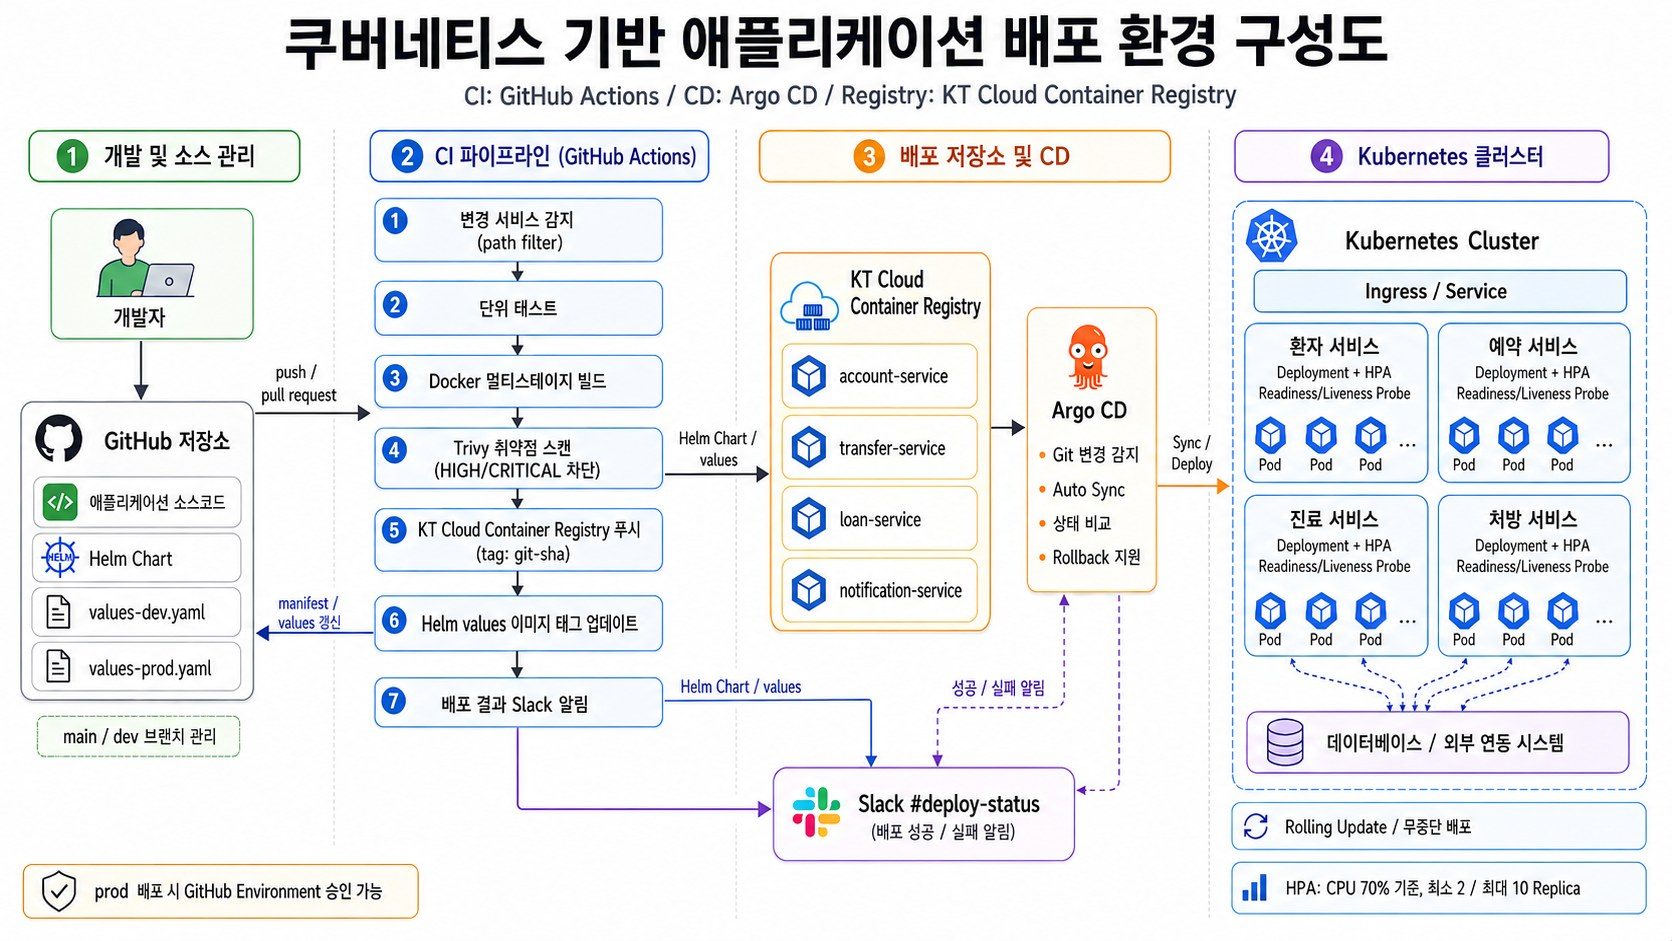
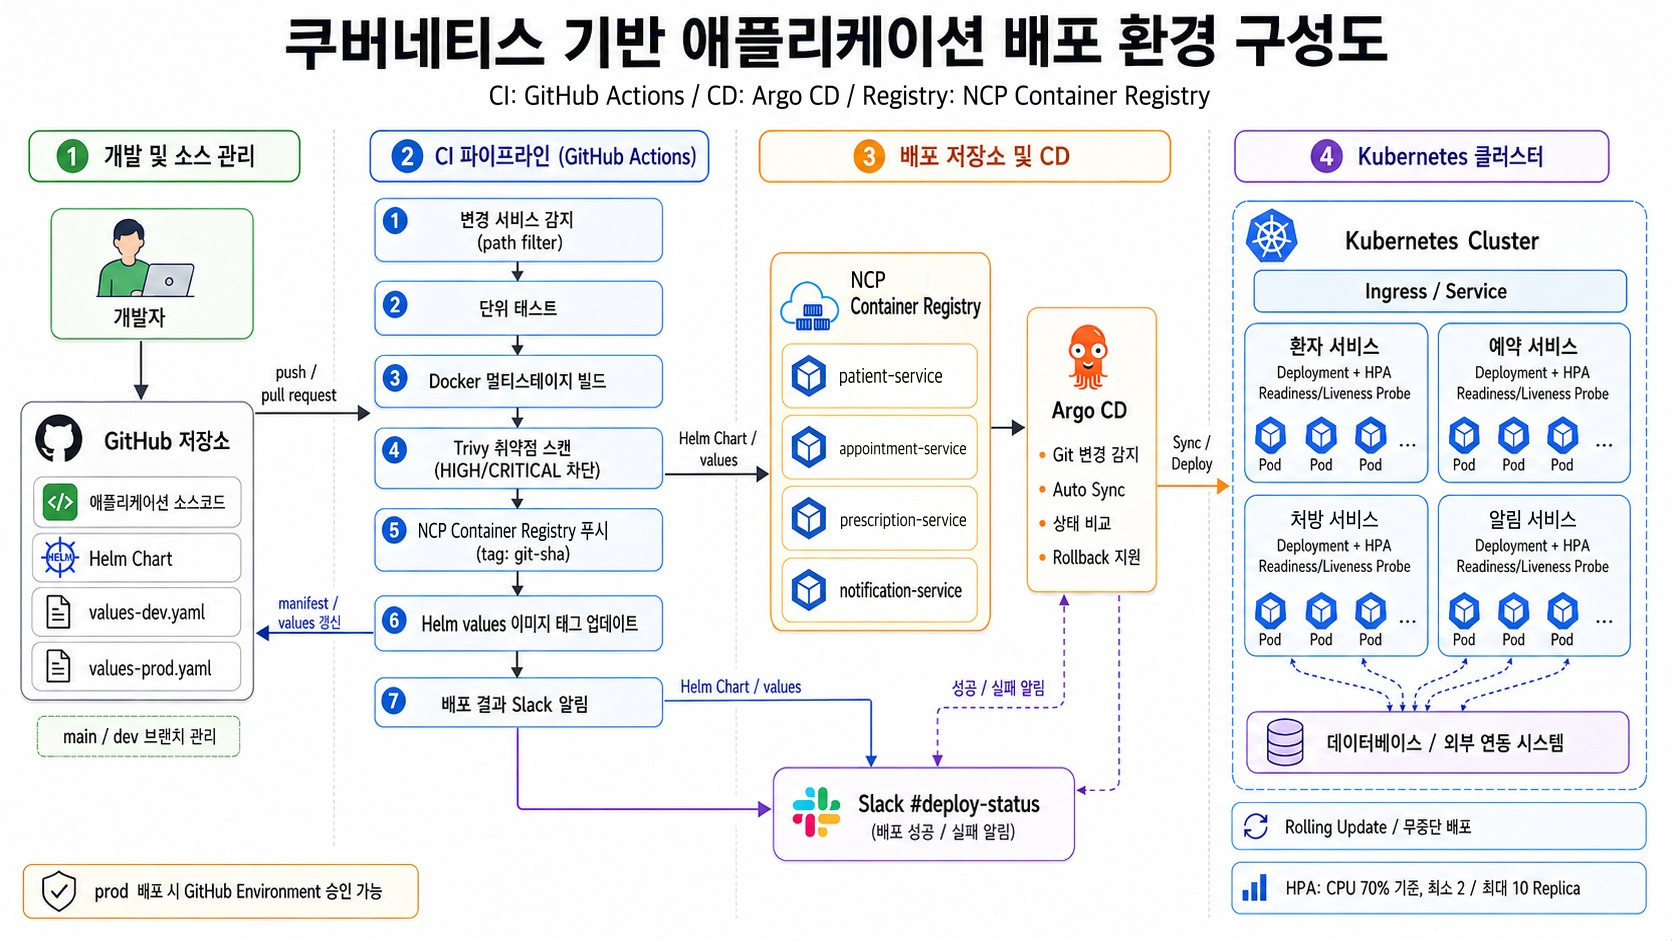
fix: match Medical MSA diagram to the actual services and NCP registry

diff --git a/projects/cloud-native.html b/projects/cloud-native.html
@@ -36,7 +36,7 @@
     <figure class="system-arch">
       <figcaption>DEPLOYMENT ARCHITECTURE</figcaption>
       <a class="system-arch-image" href="../assets/medical-architecture.jpg" target="_blank" rel="noreferrer" aria-label="배포 구성도 원본 이미지 열기">
-        <img src="../assets/medical-architecture.jpg" alt="쿠버네티스 기반 애플리케이션 배포 환경 구성도: GitHub 저장소에서 GitHub Actions가 변경 감지, 단위 테스트, 멀티스테이지 빌드, Trivy 스캔, 레지스트리 푸시, Helm values 갱신, Slack 알림을 수행하고 Argo CD가 Kubernetes 클러스터의 환자 · 예약 · 진료 · 처방 서비스로 배포" />
+        <img src="../assets/medical-architecture.jpg" alt="쿠버네티스 기반 애플리케이션 배포 환경 구성도: GitHub 저장소에서 GitHub Actions가 변경 감지, 단위 테스트, 멀티스테이지 빌드, Trivy 스캔, 레지스트리 푸시, Helm values 갱신, Slack 알림을 수행하고 NCP Container Registry를 거쳐 Argo CD가 Kubernetes 클러스터의 환자 · 예약 · 처방 · 알림 서비스로 배포" />
       </a>
     </figure>
 
